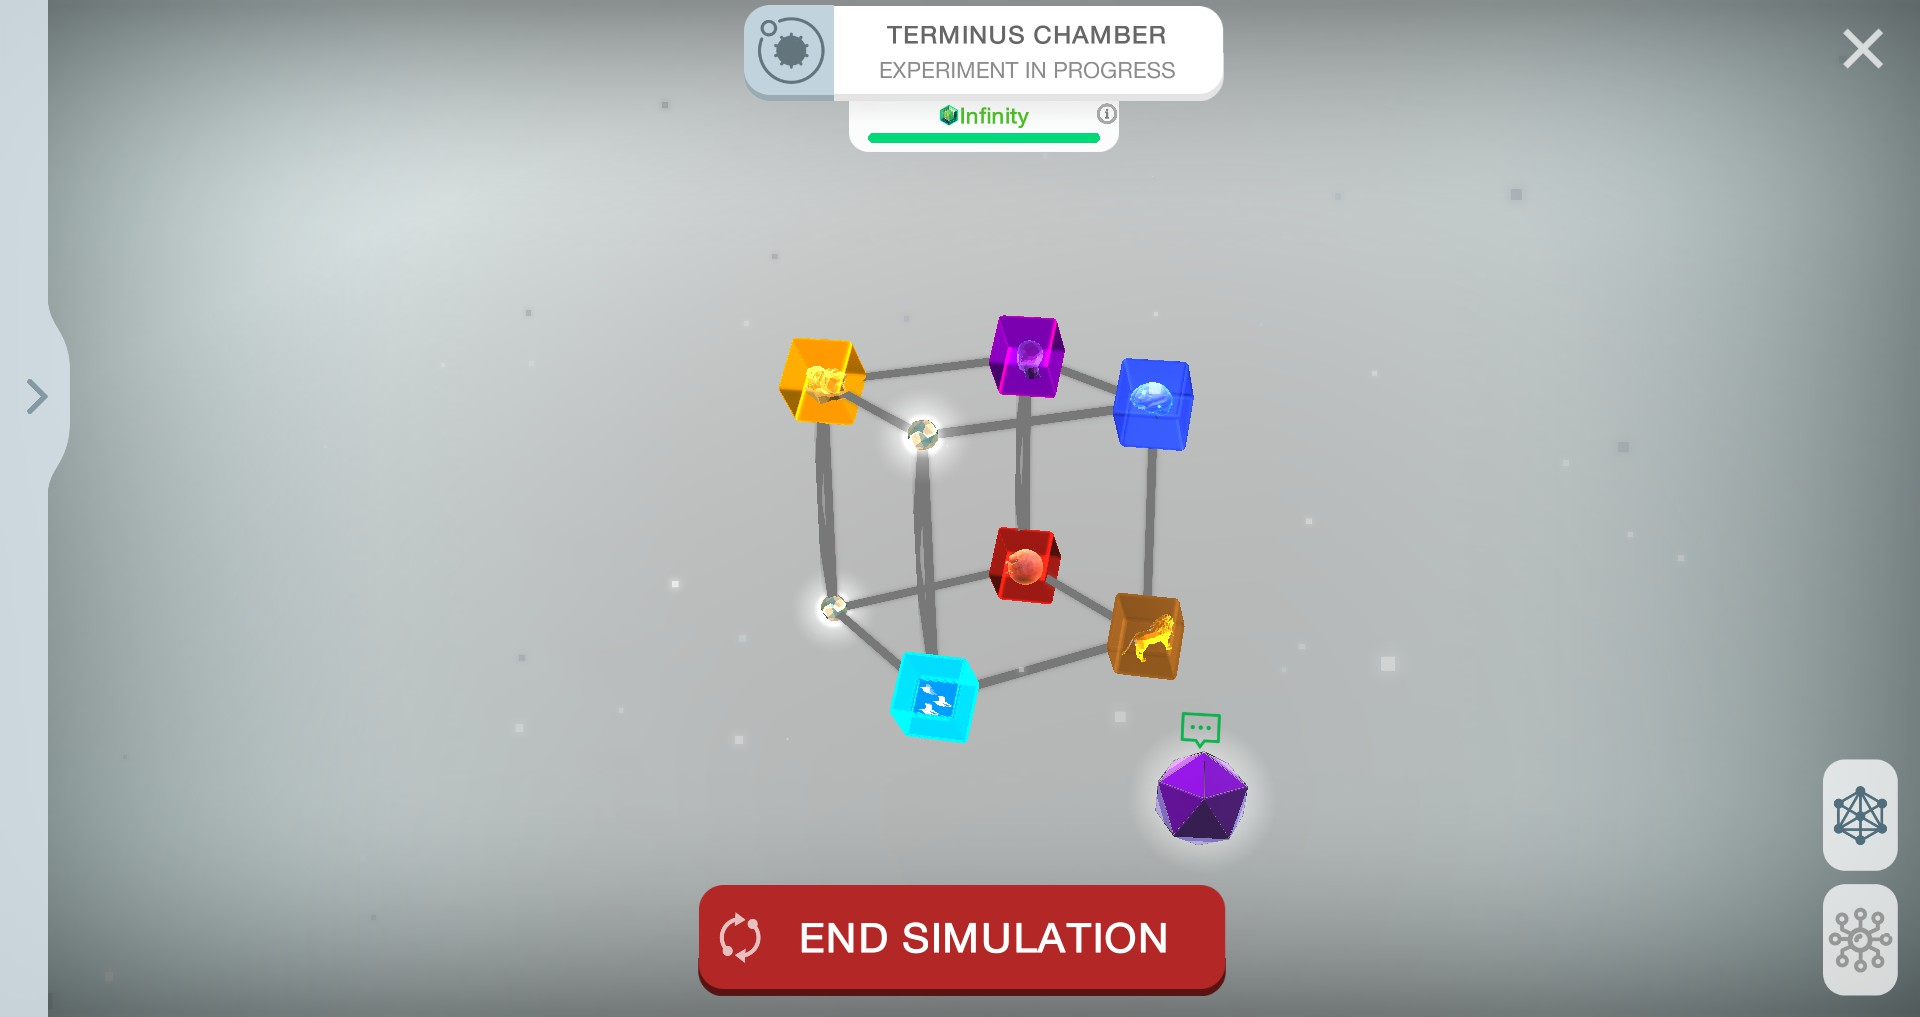
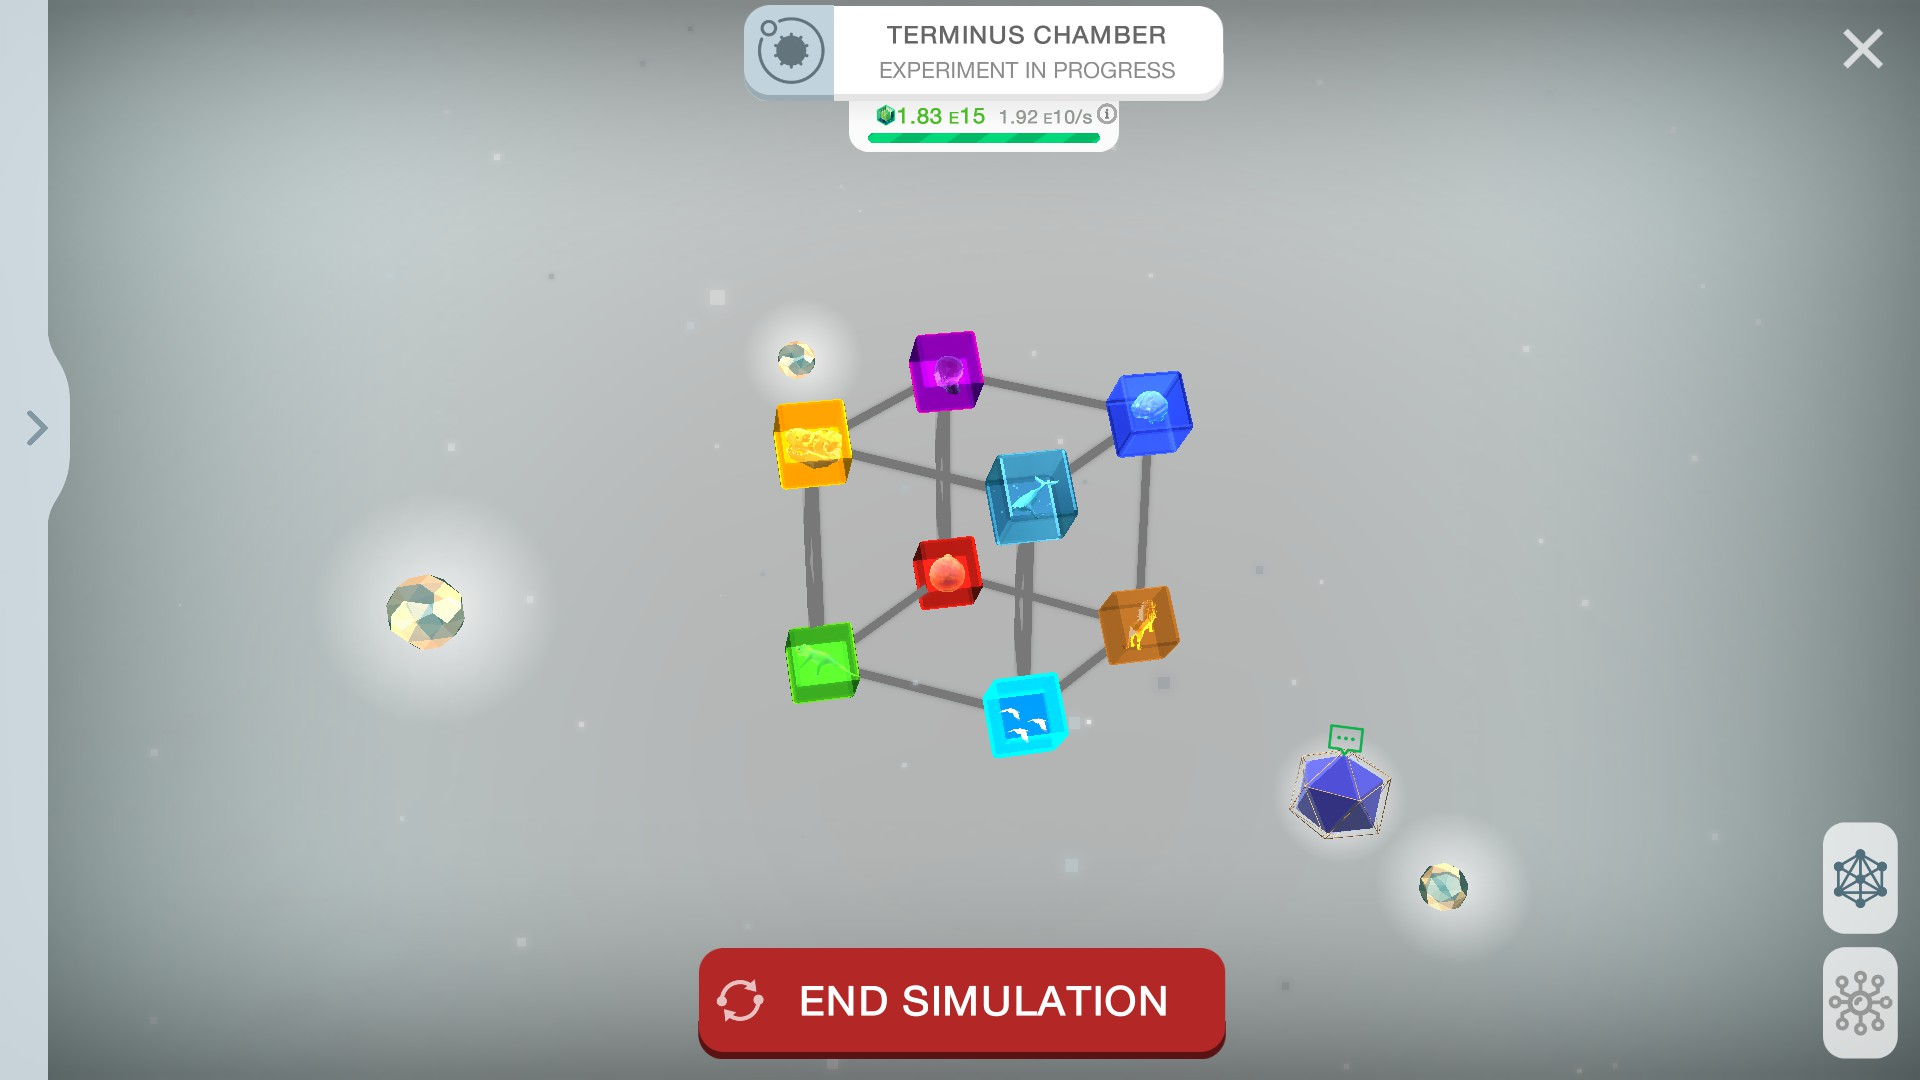
adjusted `s!terminuschamber` and `s!secret`

diff --git a/commands/terminuschamber.js b/commands/terminuschamber.js
@@ -23,7 +23,9 @@ module.exports.run = async (client, message, args) => {
         .setDescription(['**Yellow Cube** - ||Explore the Mesozoic Valley||',
             '**Purple Cube** - ||Unlock Singularity for the first time||',
             '**Dark Blue Cube** - ||Unlock the human brain||',
-            '**Light Blue Cube** - ||Obtain/Evolve Neoaves||',
+            '**Bright Blue Cube** - ||Obtain/Evolve Neoaves||',
+            '**Light Blue Cube** - ||Unlock Cetaceans||',
+            '**Lime Green Cube** - ||Unlock Crocodilians||',
             '**Orange Cube** - ||Unlock Feliforms||',
             '**Red Cube** - ||Terraform Mars||'].join('\n'));
     message.channel.send(embed);

diff --git a/commands/secret.js b/commands/secret.js
@@ -26,7 +26,7 @@ module.exports.run = async (client, message, args) => {
 			"7. Between the savannah and the jungle section where the river splits them apart, you'll find the Amazonian Dolphin.",
 			"**Secrets of the speedruns:**",
 			"8. Reach Singularity within 5 minutes.",
-			"9. Reach Singularity within 90 seconds!"].join("\n"));
+			"9. Reach Singularity within 120 seconds!"].join("\n"));
 	message.author.send(embed).catch(err => message.channel.reply('Something went wrong while trying to send the message, you likely have your DMs closed, preventing you from receiving the message'));
 }
 
